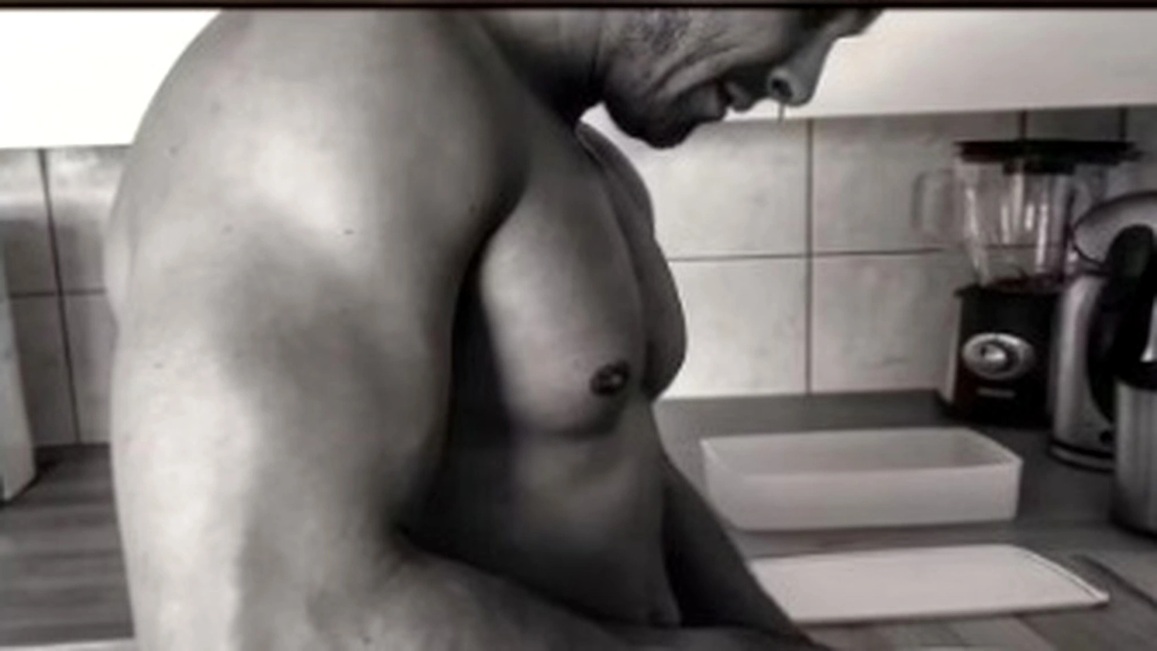
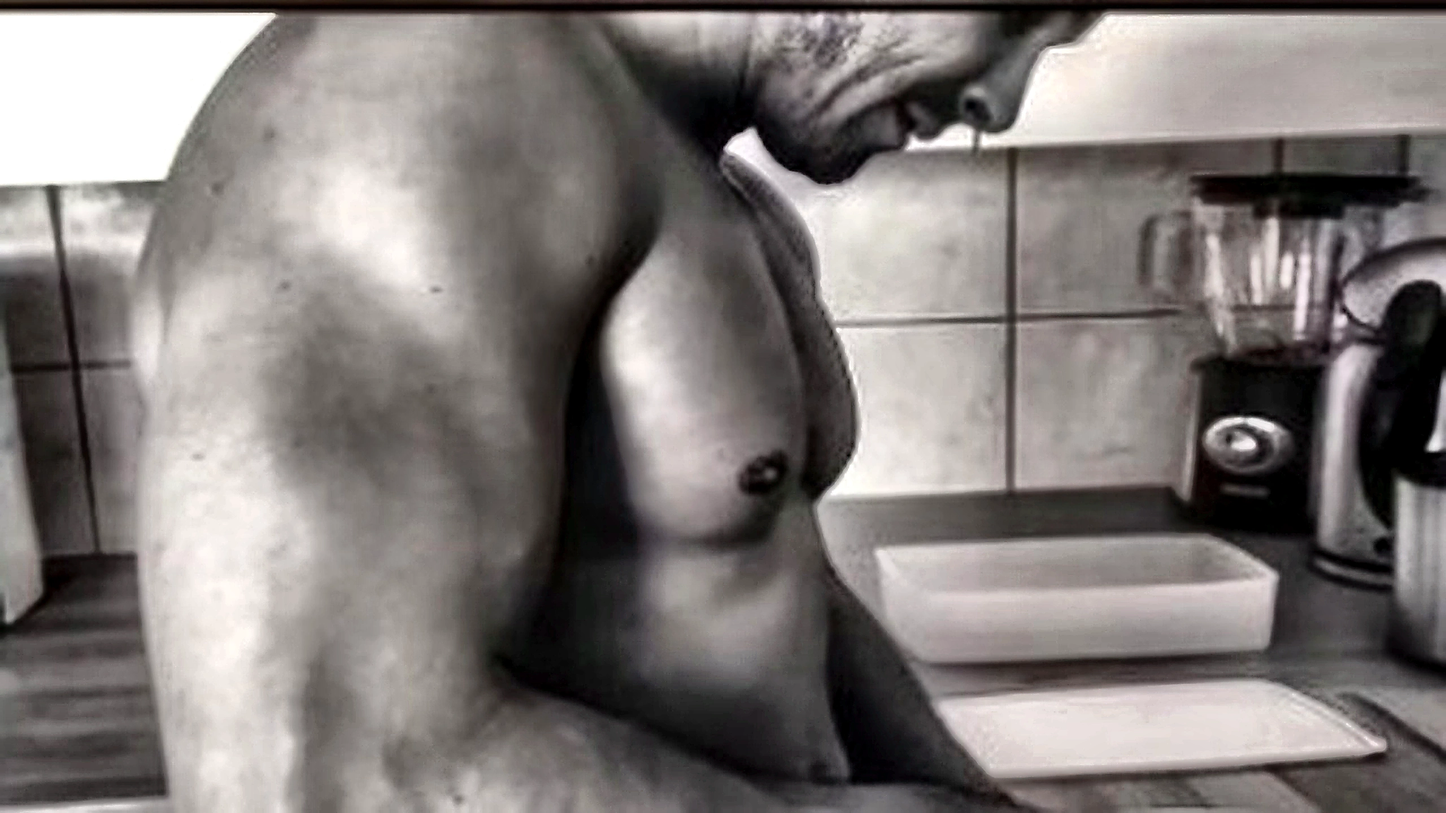
feat: retina-level background images matching headlines Food, Move, Repeat

diff --git a/src/pages/Home.tsx b/src/pages/Home.tsx
@@ -1,6 +1,5 @@
 import { useEffect, type CSSProperties } from 'react'
 import { Link } from 'react-router-dom'
-import { SystemMolecule } from '../components/SystemMolecule'
 import { useLocale } from '../locale'
 
 export function Home() {
@@ -63,9 +62,22 @@ export function Home() {
             style={{ '--pillar-color': '#e8a14a' } as CSSProperties}
             aria-label="Pillar M1 Food Metabolism"
           >
-            <div className="bento-molecule-visual" style={{ position: 'absolute', inset: 0, opacity: 0.9, pointerEvents: 'none' }}>
-              <SystemMolecule />
-            </div>
+            <picture className="bento-bg">
+              <source
+                type="image/webp"
+                srcSet="/images/moodboard/mood-kitchen@2x.webp 2x, /images/moodboard/mood-kitchen.webp 1x"
+              />
+              <source
+                srcSet="/images/moodboard/mood-kitchen@2x.jpg 2x, /images/moodboard/mood-kitchen.jpg 1x"
+              />
+              <img
+                src="/images/moodboard/mood-kitchen@2x.jpg"
+                alt="M1 Food Metabolismus & Zellenergie"
+                loading="lazy"
+                decoding="async"
+                className="bento-bg-img"
+              />
+            </picture>
             <div className="bento-overlay" />
             <div className="bento-content">
               <span className="bento-pillar-badge" style={{ borderColor: 'rgba(232, 161, 74, 0.45)', color: '#e8a14a' }}>
@@ -96,14 +108,14 @@ export function Home() {
             <picture className="bento-bg">
               <source
                 type="image/webp"
-                srcSet="/images/moodboard/mood-limitless.webp 1x, /images/moodboard/mood-limitless@2x.webp 2x"
+                srcSet="/images/moodboard/mood-limitless@2x.webp 2x, /images/moodboard/mood-limitless.webp 1x"
               />
               <source
-                srcSet="/images/moodboard/mood-limitless.jpg 1x, /images/moodboard/mood-limitless.jpg 2x"
+                srcSet="/images/moodboard/mood-limitless@2x.jpg 2x, /images/moodboard/mood-limitless.jpg 1x"
               />
               <img
-                src="/images/moodboard/mood-limitless.jpg"
-                alt="M2 Biomechanics Mobilität & Schmerzfreiheit"
+                src="/images/moodboard/mood-limitless@2x.jpg"
+                alt="M2 Move Biomechanik & Schmerzfreiheit"
                 loading="lazy"
                 decoding="async"
                 className="bento-bg-img"
@@ -139,14 +151,14 @@ export function Home() {
             <picture className="bento-bg">
               <source
                 type="image/webp"
-                srcSet="/images/moodboard/mood-focus.webp 1x, /images/moodboard/mood-focus@2x.webp 2x"
+                srcSet="/images/moodboard/mood-focus@2x.webp 2x, /images/moodboard/mood-focus.webp 1x"
               />
               <source
-                srcSet="/images/moodboard/mood-focus.jpg 1x, /images/moodboard/mood-focus.jpg 2x"
+                srcSet="/images/moodboard/mood-focus@2x.jpg 2x, /images/moodboard/mood-focus.jpg 1x"
               />
               <img
-                src="/images/moodboard/mood-focus.jpg"
-                alt="M3 Mindset Fokus & neuronale Klarheit"
+                src="/images/moodboard/mood-focus@2x.jpg"
+                alt="M3 Repeat Mindset Fokus & neuronale Klarheit"
                 loading="lazy"
                 decoding="async"
                 className="bento-bg-img"

diff --git a/src/index.css b/src/index.css
@@ -3459,12 +3459,31 @@ picture.bento-bg img,
   transition: none !important;
 }
 
-.bento-card--m2 .bento-bg-img {
+.bento-card--m1 .bento-bg-img {
   object-position: center 30% !important;
 }
 
+.bento-card--m2 .bento-bg-img {
+  object-position: center 25% !important;
+}
+
 .bento-card--m3 .bento-bg-img {
-  object-position: center 40% !important;
+  object-position: center 35% !important;
+}
+
+.bento-card--pillar .bento-bg-img {
+  image-rendering: -webkit-optimize-contrast !important;
+  transform: translateZ(0) !important;
+  -webkit-backface-visibility: hidden !important;
+}
+
+.bento-card--pillar .bento-overlay {
+  background: linear-gradient(
+    180deg,
+    rgba(0, 0, 0, 0.08) 0%,
+    rgba(0, 0, 0, 0.35) 45%,
+    rgba(0, 0, 0, 0.88) 100%
+  ) !important;
 }
 
 .bento-card--michel .bento-bg-img {
